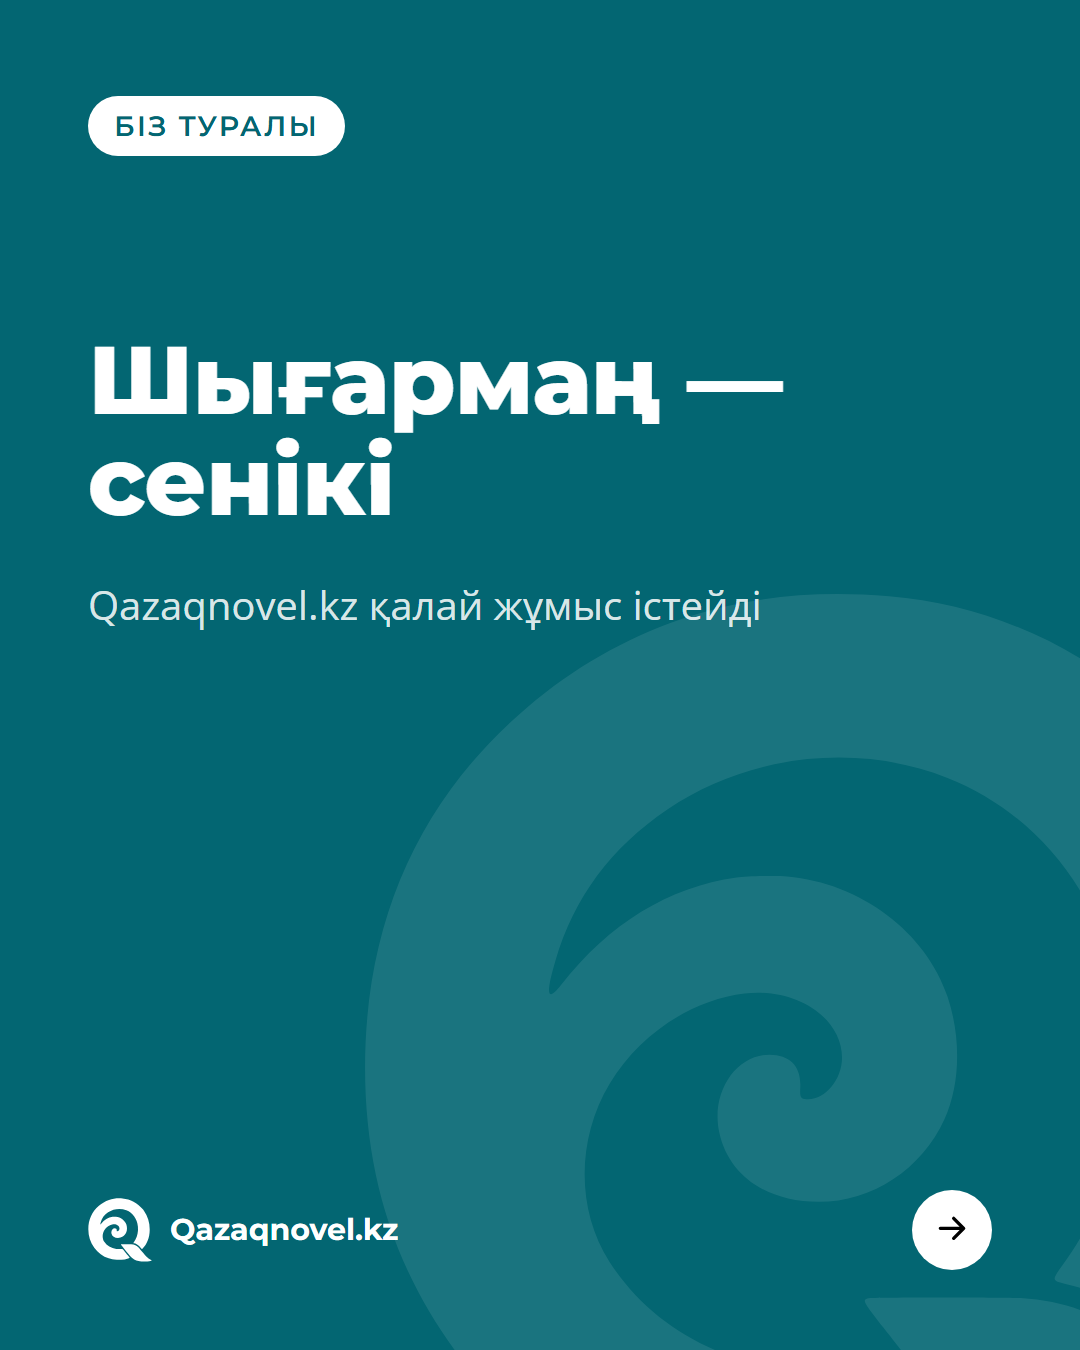
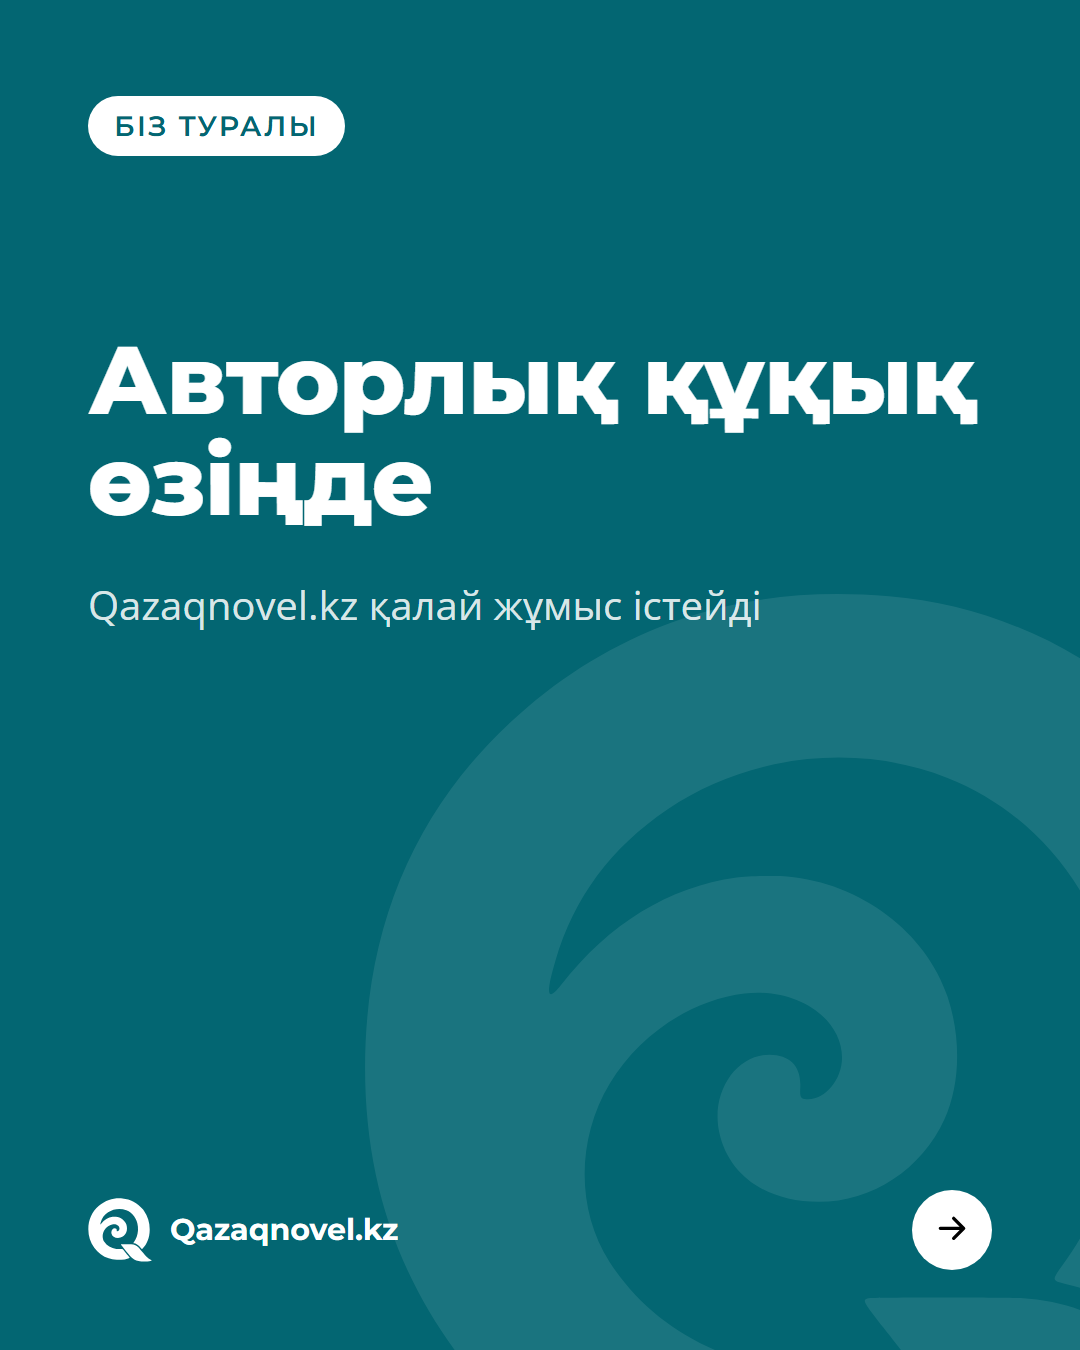
Retitle the how-it-works post: Авторлық құқық өзіңде
The free-publishing slide now covers free reading and chapter-by-chapter
publishing instead of repeating the manifesto's "anyone can write"; the
caption and the plan follow the new title.

Changed region(s): [[0.0611, 0.2489, 0.9167, 0.4044]]

diff --git a/plan/2026-11.md b/plan/2026-11.md
@@ -15,7 +15,7 @@
 | Дата | День | Рубрика | Тема (заголовок обложки) | Нужно от владельца | Фон | Статус |
 |---|---|---|---|---|---|---|
 | 02.11 | Пн | Біз туралы | «Қазақша оқы. Қазақша жаз. Өз оқиғаңды қалдыр» — манифест по тексту страницы «Біз туралы» (тезис «Әдебиет — тек классика ғана емес» — слайд 4). **Закрепить** | — (текст есть на сайте) | Бирюза | вычитка |
-| 03.11 | Вт | Біз туралы | «Шығармаң — сенікі» — как устроена платформа (тегін, модерация, шығарма автордың меншігі), по разделу «Қалай жұмыс істейді». **Закрепить** вместо байқау, пока его нет | — | Бирюза | вычитка |
+| 03.11 | Вт | Біз туралы | «Авторлық құқық өзіңде» — как устроена платформа (тегін, модерация, шығарма автордың меншігі), по разделу «Қалай жұмыс істейді». **Закрепить** вместо байқау, пока его нет | — | Бирюза | вычитка |
 | 04.11 | Ср | Үзінді | отрывок № 1 | произведение, согласие автора, обложка | Қағаз | идея |
 | 06.11 | Пт | Дәйексөз | цитата классика о языке или слове | подтвердить источник цитаты | Терең | идея |
 | 09.11 | Пн | Жазу мектебі | «Алғашқы бөлімді 5 қадамда жарияла» — инструкция по сайту. **Закрепить.** Reels № 1 — запись экрана тех же шагов | скриншоты с телефона; запись экрана для Reels | Бирюза | идея |
